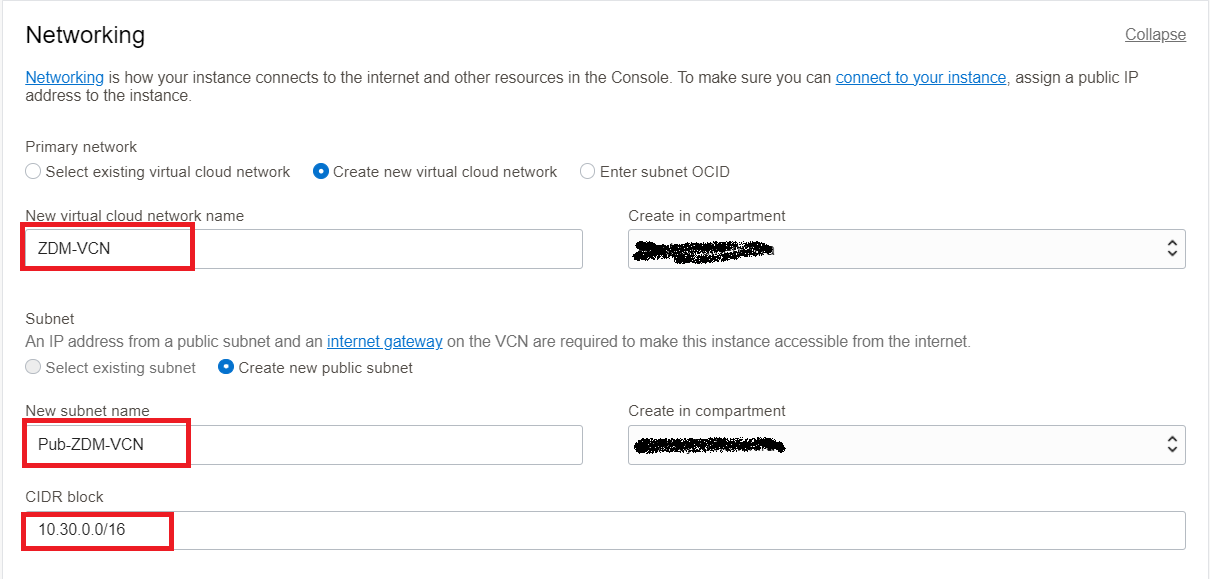
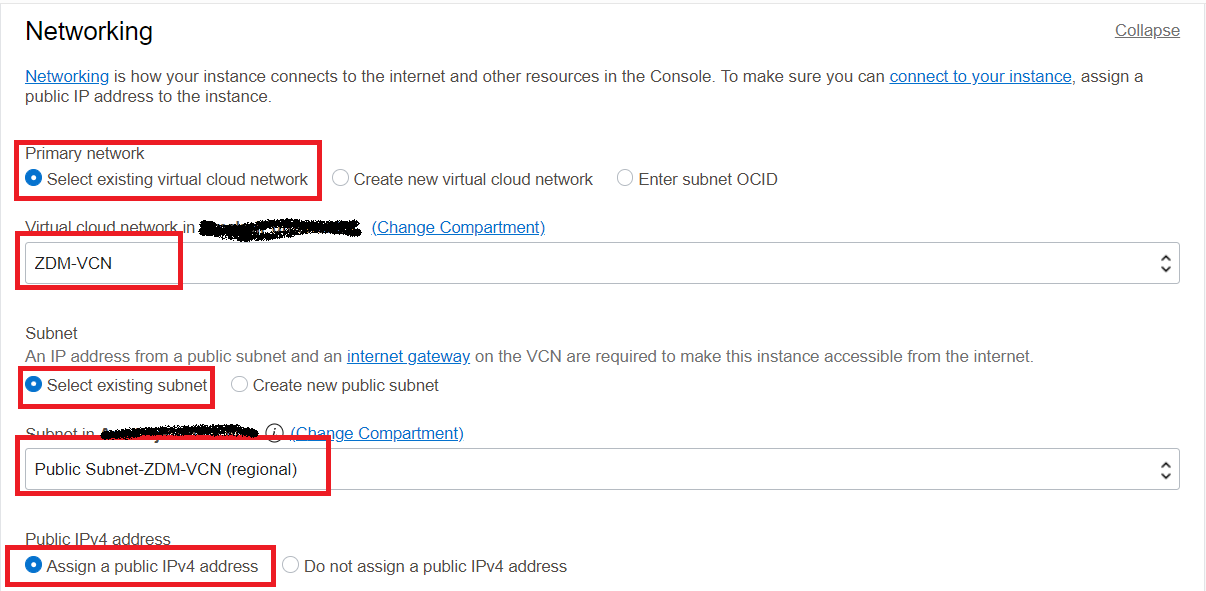
commit

diff --git a/zdm-physical-offline/source-database-prov/source-database-prov.md b/zdm-physical-offline/source-database-prov/source-database-prov.md
@@ -15,29 +15,29 @@ In this task we will create a new VCN which will be used to host Source Database
  
 3. Click on "Start VCN Wizard"
 
-![ss2](./images/Task1_VCNWizard.png " ")
+     ![ss2](./images/Task1_VCNWizard.png " ")
 
 4. In the new small window , Select the "Create VCN with Internet Connectivity" and then click on "Start VCN Wizard"
 
-![ss3](./images/Task1_VCNWizard2.png " ")
+     ![ss3](./images/Task1_VCNWizard2.png " ")
 
 5. In new window , under Basic information specify name of VCN as ZDM-VCN and select appropritate compartment.
 
-![ss4](./images/Task1_VCNWizard3.png " ")
+     ![ss4](./images/Task1_VCNWizard3.png " ")
 
 6. Under Configure VCN and Subnets , enter details as shown in image below.
 
-![ss5](./images/Task1_VCNWizard4.png " ")
+     ![ss5](./images/Task1_VCNWizard4.png " ")
 
 Once details are entered , Click on Next
 
 7. On the next screen , Click on Create
 
-![ss6](./images/Task1_VCNWizard5.png " ")
+     ![ss6](./images/Task1_VCNWizard5.png " ")
 
 8. This will take few seconds and you will receive a screen similar to the one below after completion.
 
-![ss7](./images/Task1_VCNWizard6.png " ")
+     ![ss7](./images/Task1_VCNWizard6.png " ")
 
 
 
@@ -47,55 +47,51 @@ Once details are entered , Click on Next
 
 2. Click the Navigation Menu in the upper left, navigate to Marketplace and then select All Applications.
 
-![ss1](./images/Navigate.png " ")
+     ![ss1](./images/Navigate.png " ")
 
 3. Type "Oracle Database" in search bar.
 
-![ss2](./images/oracledb.png " ")
+     ![ss2](./images/oracledb.png " ")
 
 4. Click on the listed "Oracle Database (Single Instance) Image
 
-![ss3](./images/oracleimage.png " ")
+     ![ss3](./images/oracleimage.png " ")
 
 5. Select an Oracle Database version which is latest ( You will same latest version on OL7 and OL8)
     
    We have choosen OL7 since we would like to match the target OS as close as possible.
 
-![ss4](./images/dbver.png " ")
+     ![ss4](./images/dbver.png " ")
 
 6. Ensure to select the correct compartment in your tenancy and then click on "Launch Instance"
 
-![ss5](./images/launch.png " ")
+     ![ss5](./images/launch.png " ")
 
 7. On the Create compute instance page , Please update Name for Compute.
 
-![ss6](./images/Compute1.png " ")
+     ![ss6](./images/Compute1.png " ")
 
 You can leave the Image and Shape as Default.
 
-![ss7](./images/shape.png " ")
+     ![ss7](./images/shape.png " ")
 
-Under Networking , Populate details as below.
+Under Networking , select choices to reflect the below details
 
 VCN Name : ZDM-VCN
 
-Subnet Name : Pub-ZDM-VCN
+Subnet Name : Pubic Subnet-ZDM-VCN
 
-CIDR Block : 10.30.0.0/16
-
-![ss8](./images/Compute3.png " ")
+    ![ss8](./images/Compute3.png " ")
 
 Under Add SSH Keys
 
 Browse and provide the ssh key generated earlier.
 
-![ss9](./images/Compute4.png " ")
-
-Yes , that's it we are ready to provision the Source Databse instance.
+    ![ss9](./images/Compute4.png " ")
 
 Click on "Create" to start the compute provisioning.
 
-./images/Compute5.png
+     ![ss9](./images/Compute5.png " ")
 
 
 
